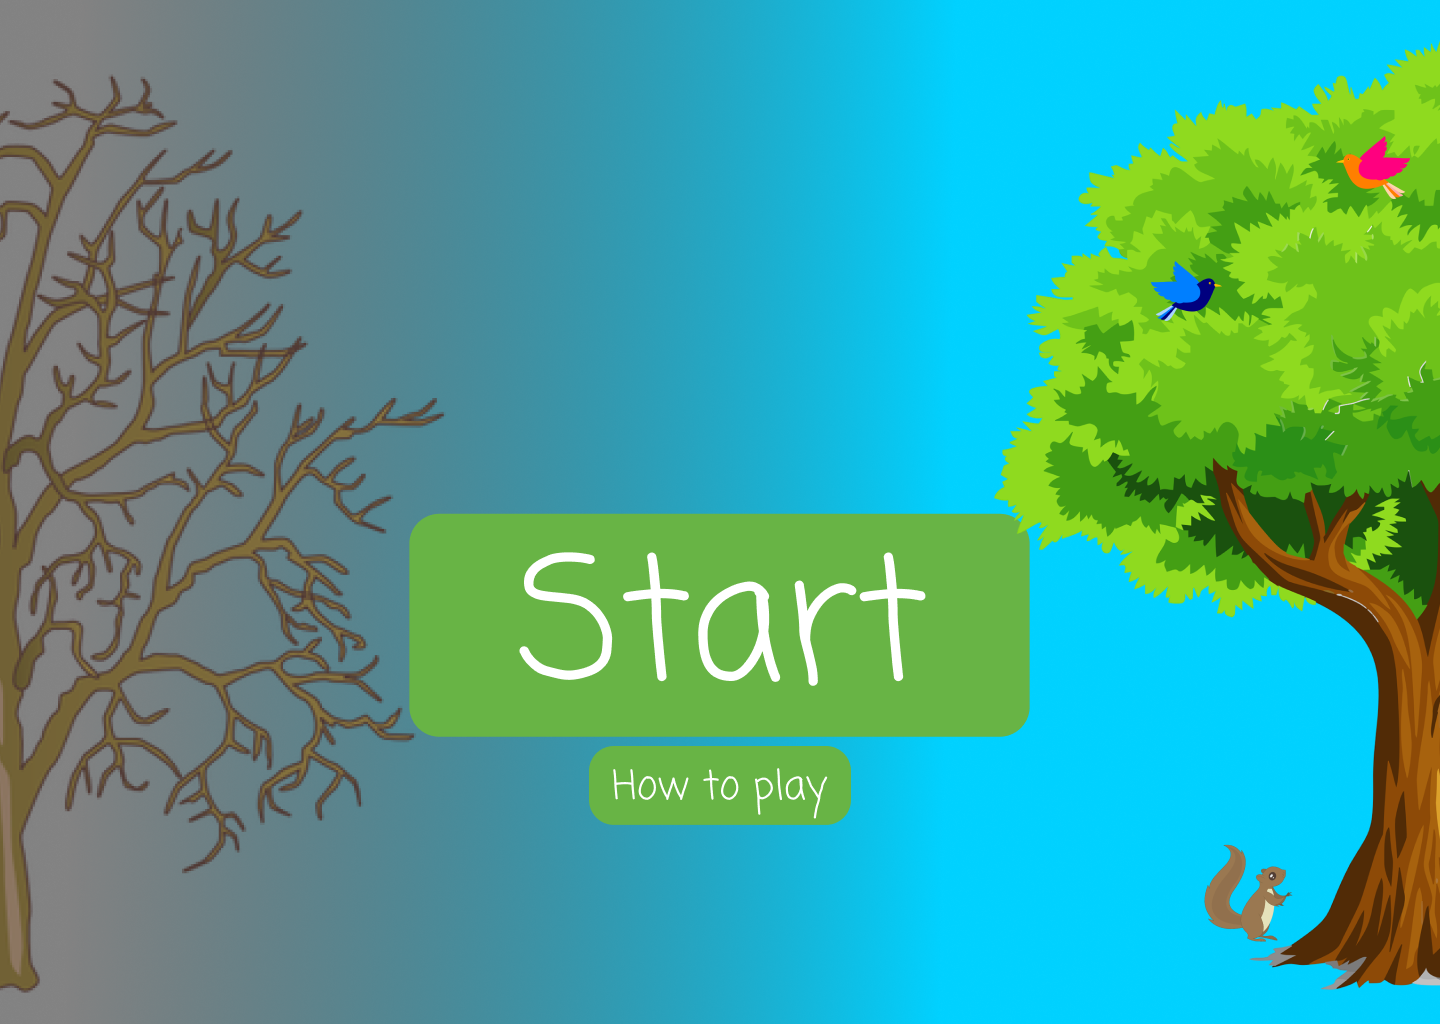
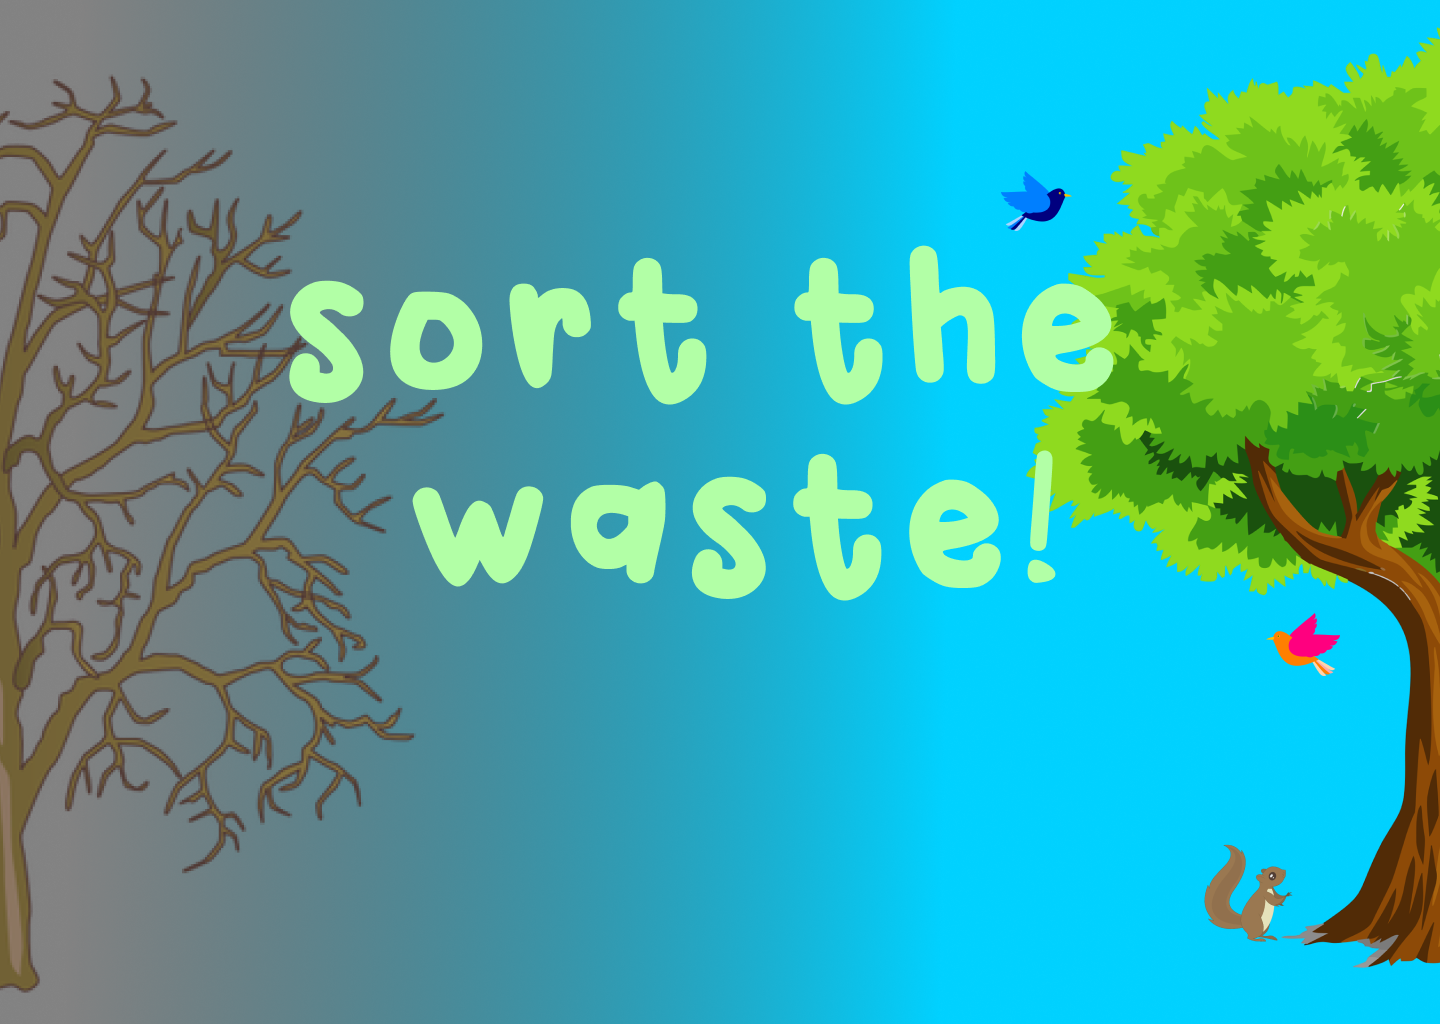
finished start screen with bhoomi

Changed region(s): [[0.2812, 0.0312, 1.0, 0.9688], [0.1875, 0.25, 0.5, 0.4062]]

diff --git a/start.js b/start.js
@@ -1,10 +1,41 @@
-var clickNum = 0;
+var clickNum = -1;
 //2,5,3,4,6
-const IMGS = ['part2.png', 'part3.png', 'part4.png', 'part5.png'];
+const IMGS = ['part2.png', 'part3.png', 'part4.png', 'part5.png', 'part6.png'];
 
 function changeIMG() {
-    document.body.style.backgroundImage = `url(${IMGS[clickNum]})`;
-    if (clickNum != 3) {
-        clickNum++;
+
+    var button = document.getElementById("button");
+    var d3 = document.getElementById("d3");
+    var d4 = document.getElementById("d4");
+    var d5 = document.getElementById("d5");
+    button.style.display="none";
+    d3.style.display="block";
+    d4.style.display="block";
+    d5.style.display="block";
+    
+    if (clickNum != 4) {
+        if(d3.className != undefined) {
+            clickNum++;
+            document.body.style.backgroundImage = `url(${IMGS[clickNum]})`;
+        }
+    } else {
+        d3.style.display="none";
+        d4.style.display="none";
+        d5.style.display="none";
     }
+}
+
+function changeIMGBack() {
+    if (clickNum > 0) {
+        clickNum = clickNum - 1;
+        document.body.style.backgroundImage = `url(${IMGS[clickNum]})`;
+    }
+}
+
+function skip() {
+    clickNum = 4;
+    document.body.style.backgroundImage = `url(${IMGS[clickNum]})`;
+    d3.style.display="none";
+    d4.style.display="none";
+    d5.style.display="none";
 }

diff --git a/start.html b/start.html
@@ -7,14 +7,20 @@
   </head>
   <body>
     <section>
-        <p> 
-            <button type="button" id="butt1" onclick="changeIMG();"> 
-                Next
-            </button> 
-        </p> 
-        <p>
-          <input type="image" src="next.png" name="next" class="btTxt submit" id="next" />
-        </p>
+      <input type="image" src="start.png" name="start" class="btTxt_start" id="button" onclick="changeIMG();"/>
+
+      <div id="d3" class="btTxt_next">
+        <input type="image" src="next.png" name="next" id="next" onclick="changeIMG();"/>
+      </div>
+
+      <div id="d4" class="btTxt_back">
+        <input type="image" src="back.png" name="back" id="back" onclick="changeIMGBack();"/>
+      </div>
+
+      <div id="d5" class="btTxt_skip">
+        <input type="image" src="skip.png" name="skip" id="skip" onclick="skip();"/>
+      </div>
+      
     </section>
   </body>
 </html>

diff --git a/style.css b/style.css
@@ -14,6 +14,28 @@ html {
     background-position: center center;
 }
 
-/* #butt1 {
-    background-color: ;
-} */
+#button {
+    margin: auto 500px;
+    margin-top: 400px;
+    width: 300px;
+    height: auto;
+}
+
+#d3 {
+    position: absolute;
+    right: 65px;
+    bottom: 30px;
+    display: none;
+}
+
+#d4 {
+    position: absolute;
+    bottom: 30px;
+    display: none;
+}
+
+#d5 {
+    position: absolute;
+    right: 60px;
+    display: none;
+}
